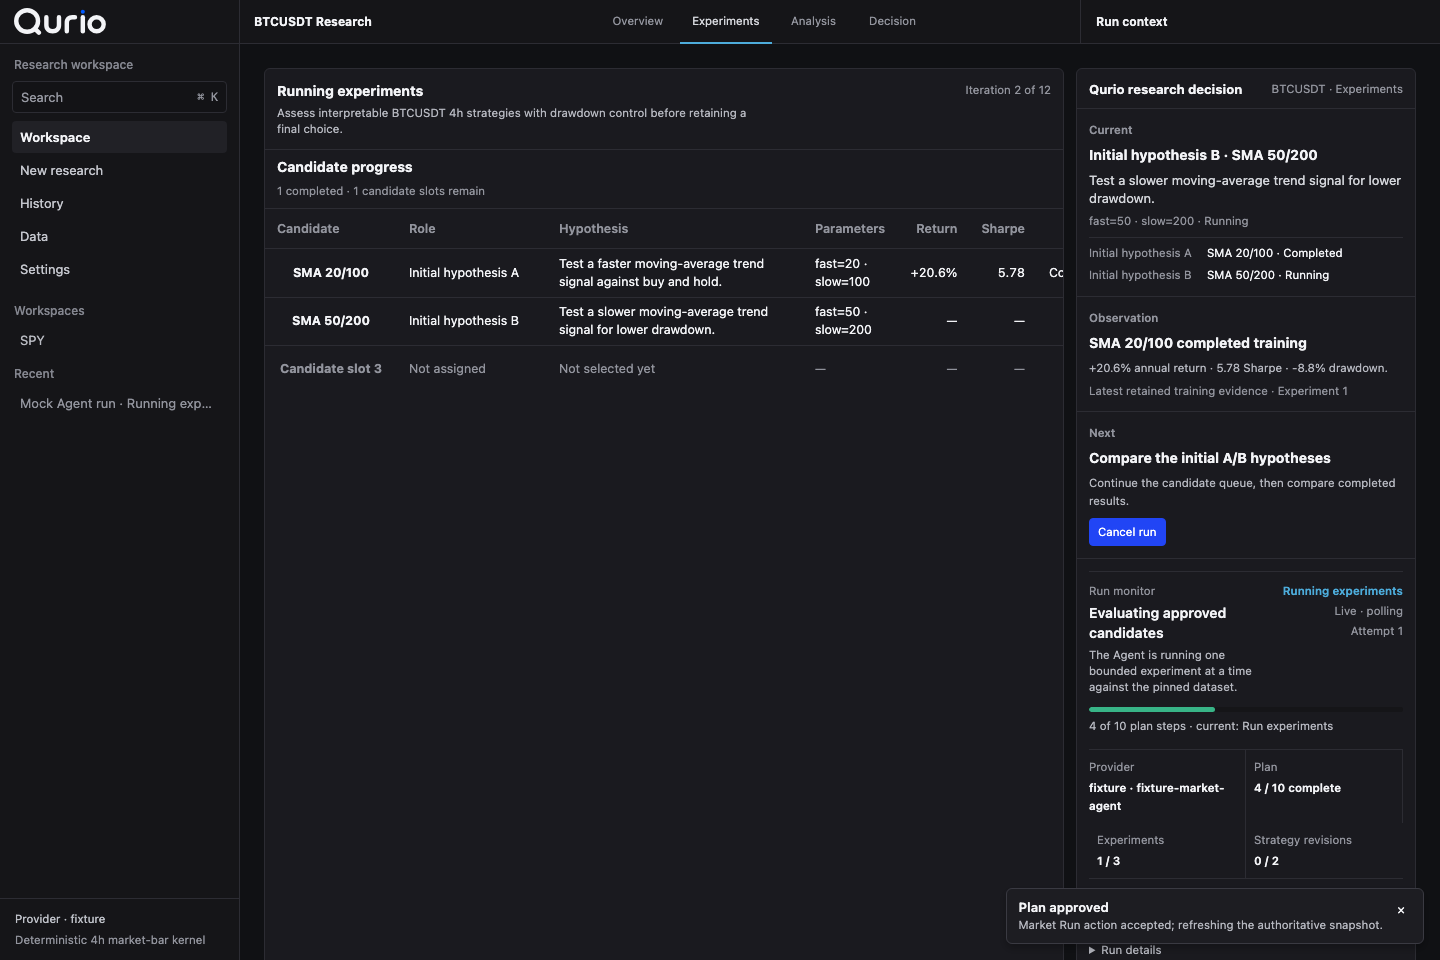
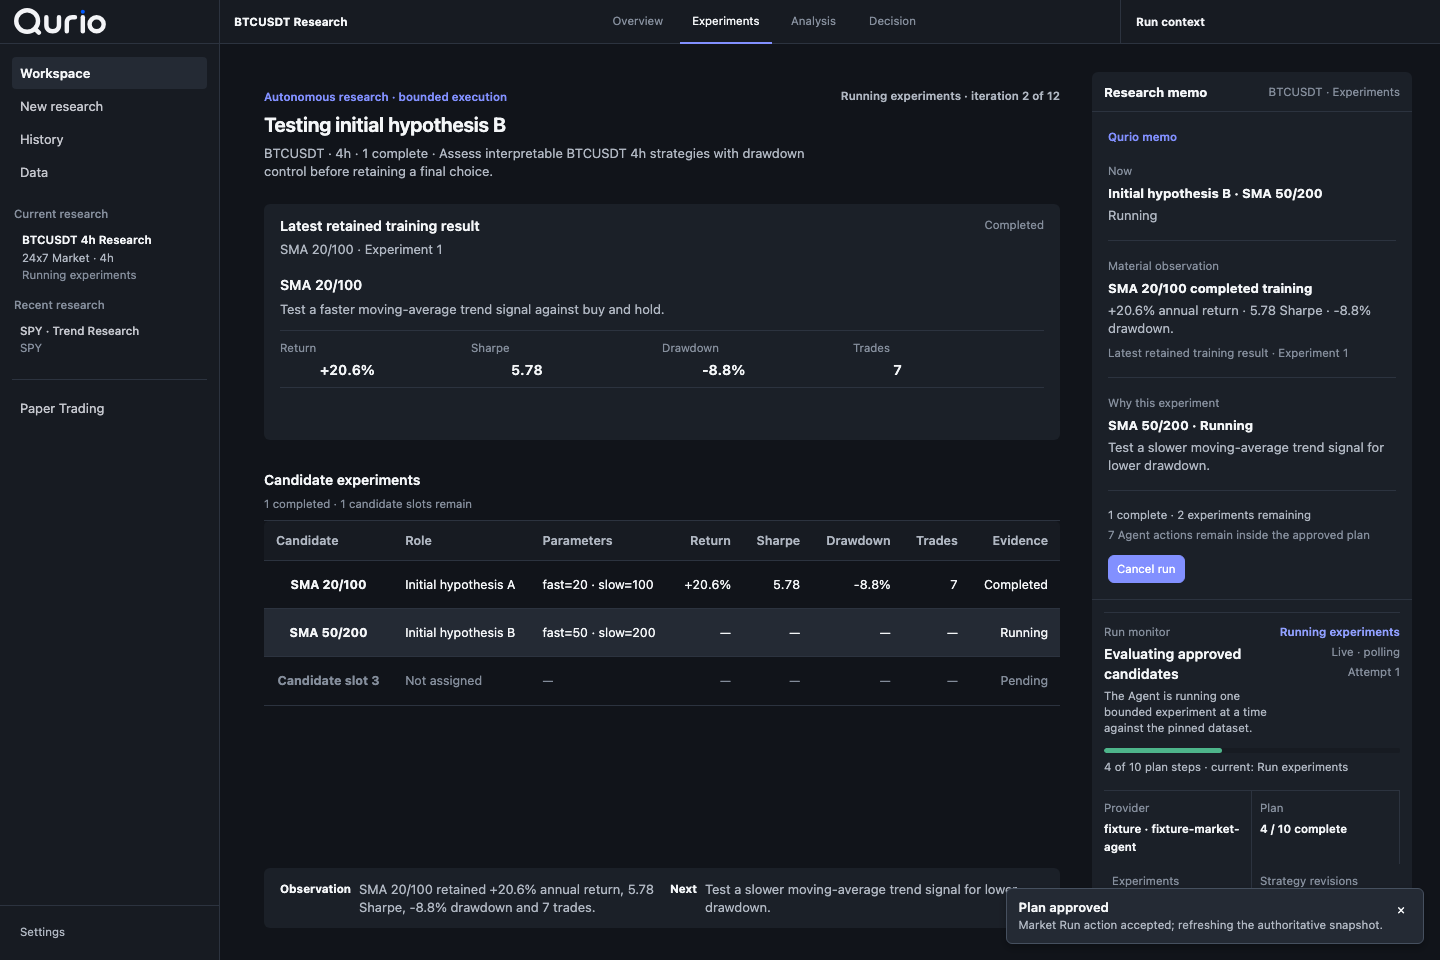
docs: refresh Qurio interview proof

diff --git a/docs/QURIO_DEMO_3_TO_5_MIN.md b/docs/QURIO_DEMO_3_TO_5_MIN.md
@@ -1,182 +1,139 @@
-# Qurio 面试演示脚本（3–5 分钟版）
+# Qurio 面试演示脚本（3–5 分钟）
 
-**产品名称**：Qurio
+## 一句话定位
 
-**用途**：展示 Qurio 如何把固定公开数据、受界研究契约、A/B/C 候选修复、排名与证据选择、密封 holdout 失败，以及 E0 导出 + History 重开串成一个可验证的研究工作流。
+Qurio 是由一个受界自主 Research Agent 驱动的 AI-native 量化研究工作台：它把固定市场数据、可审批计划、候选实验、比较证据、密封 holdout 决策和下一版本串成一条可验证主线。
 
-**适用对象**：面试官、投资人、产品评审。
-**时长**：主讲 90 秒，完整版 3–5 分钟，附 Q&A 与 presenter notes。
+它不是 Agent Builder、券商或实盘交易平台。Paper Trading 是与研究隔离的本地模拟边界，只有最终候选通过密封 holdout 后才能创建待复核订单。
 
-Qurio 是由单一可验证自主研究 Agent 驱动的 AI-native 量化研究工作台；本演示不声称
-Agent Builder、回放/纸面交易、经纪商执行或策略盈利能力。
+## 90 秒主讲
 
----
+### 1. 独立安装与首次启动
 
-## 90 秒主讲版
+> 这是可独立安装的 Apple-silicon macOS 应用。DMG 内置 FastAPI、Quant Agent worker 和本地数据库，面试演示不需要仓库、Python 或 Node。首次启动可以选择 Offline deterministic，无需 API key；也可以在 Settings 配置 DeepSeek。
 
-> 这六张截图来自一次真实的 Qurio 研究会话。界面是历史只读重开，没有重新调用模型或 worker。我只点真实的 UI 元素。
+不要在主讲中展示终端。若被追问，再说明当前包采用 ad-hoc 签名，公开分发前仍需 Developer ID 与 Apple notarization。
 
-### Node 1：固定数据与研究问题（约 20 秒）
+### 2. 从保留数据开始
 
-**Presenter clicks**：Data 工作区里已保留的 **Kraken Spot BTCUSD 4h** 数据集行。
+打开 **Data**，展示 `BTCUSDT · 4h` 数据预览。
 
-> 我先点这里。这是 Qurio 的 Data 工作区，数据来源是 Kraken Spot 公开 K 线。系统丢弃了当前未收盘的那一根，最终保留 **548 根已收盘 bar**。数据集身份固定，后面 A/B/C 三个候选人都绑定同一个不可变数据版本，起点是统一的。
+> Agent 不从一句聊天直接“猜策略”。我先选一份已验证、具有固定身份和覆盖范围的数据，再定义可衡量的研究目标。这个演示使用确定性 fixture，因此证明的是产品工作流，不是行情真实性或 alpha。
 
-### Node 2：Agent A/B → 候选 C 修复（约 20 秒）
+对应截图：`p1c-01-data-1440x960.png`
 
-**Presenter clicks**：Decision Ledger / learning trace 区域里“Candidate C 第一次被拒绝、第二次成功”的相邻两行。
+### 3. 计划先于执行
 
-> 然后点 Decision Ledger。这里能看到 Agent 先生成 A 和 B，再尝试创建候选 C。第一次 C 因为模板关系不匹配被拒绝；我们没有重跑整段 prompt，而是把被拒绝的输入原样返回，Agent 只改了一个字段就通过了。修复是单一、可审计的，不是模型偷偷重写候选。
+点击 **Generate plan**，展示待审批计划，再点击 **Approve & run**。
 
-### Node 3：排名 ≠ 选择（约 20 秒）
+> Qurio 先冻结研究范围、候选家族、比较目标与完成条件。Agent 只有在批准后才能运行受注册工具；它不能写任意 Python、访问 shell、Broker 或下单。
 
-**Presenter clicks**：Analysis 页面里的训练排名，以及“最终选中 B”的说明文字。
+对应截图：`p1c-02-plan-approval-1440x960.png`
 
-> 接着看 Analysis。三名候选人的训练排名是 C/B/A，但 C 在训练期产生了 **0 笔交易**。所以 Qurio 按“最小交易证据”规则把选中对象改成 B，同时保留 C 作为排名参考。排名高不等于能进入 holdout，这是我们做选择时的核心约束。
+### 4. 让 Agent 的自主性可读
 
-### Node 4：密封 holdout 失败 → 可执行的 Refine（约 20 秒）
+切到 **Experiments**。
 
-**Presenter clicks**：holdout 指标区域，以及下一步动作按钮 **“Review & refine research”**。
+> 右侧 Research memo 只回答三件事：现在在做什么、出现了什么重要观察、为什么进行当前实验。这里 A 已完成，B 正在运行；中间区域保留最新训练证据与候选表。Agent 是主动执行和适应的，但每一步仍绑定批准的研究边界。
 
-> B 进入密封 holdout 后失败。注意 holdout 总收益和按持有期年化后的收益是两个不同的数字，不能混着说。因为 holdout 失败，系统没有给出上线或推广动作，而是把下一步固定为 **Review & refine research**：先审阅下一轮要改变什么、依据什么、需要什么证据，再进入可编辑的研究设置。失败被显式保留，不会把训练集结果误当成可交付策略。
+对应截图：`p1c-03-live-ab-1440x960.png`
 
-### Close：E0 导出 + History 重开（约 10 秒）
+### 5. 从观察适应到最终选择
 
-**Presenter clicks**：E0 导出按钮，再切到 History 列表中同一个 Run 的 reopen 视图。
+等待运行结束，展示 Candidate comparison 与 Decision Ledger。
 
-> 最后点 E0 导出，再点 History 重开。失败结果仍然可以导出为机器可读的证据包；从 History 重新打开同一个 Run，数据集、Run 身份、选中候选、证据路径完全一致。这是真正的只读重开，没有写数据库，也没有重新调用模型。
+> Qurio 不把“模型思考日志”当产品。A/B 的训练结果形成结构化观察，再驱动 Candidate C；最终选择同时保留候选身份、比较指标和选择理由。排名、选择与 holdout 是不同阶段，不能混成一个结论。
 
----
+对应截图：`p1c-04-observation-to-c-1440x960.png`
 
-## 3–5 分钟详细版
+### 6. 诚实决策、Refine、导出与历史
 
-### 1. 数据：固定且可追踪（30–45 秒）
+切到 **Decision**，展示 holdout 失败结论、**Refine version** 与 **Export evidence**。
 
-**画面**：`v1-final-183209-01-data-1440x960.png`
-**Presenter clicks**：Data 页 Kraken Spot BTCUSD 4h 行 → 数据集详情面板。
+> 这个 Run 的密封 holdout 不支持推广，所以 Qurio 不生成 Paper 或上线动作，而是给出一项有边界的 Refine：改变什么、证据依据是什么、何时停止。证据包由服务端生成；History 重开同一 Run 时保持只读身份。
 
-讲稿：
+对应截图：
 
-> 这是 Qurio 的 Data 工作区。我不演示本地上传，而是直接展示已保留的 Kraken Spot 公开 BTCUSD 4 小时 K 线。原始响应移除当前未收盘 bar 后，保留 **548 根已收盘 bar**。数据集 ID 固定，本次 Run 中所有候选人都绑定这同一个不可变数据集版本。界面会显示 bar 数与数据状态，不需要去猜数据是否完整。
+- `p1c-05-report-json-1440x960.png`
+- `p1c-06-history-reopen-1440x960.png`
 
-### 2. 研究契约与候选身份（30–45 秒）
+## 3–5 分钟展开顺序
 
-**画面**：`v1-final-183209-02-ledger-repair-1440x960.png` 上部 Plan 区
-**Presenter clicks**：已批准的 plan 卡片 → A/B/C 策略身份列表。
+1. **安装形态（20 秒）**：DMG → Applications → 首次启动选择 Offline deterministic。
+2. **Data（30 秒）**：来源、interval、coverage、bar count、Research ready。
+3. **Research Contract（30 秒）**：目标、候选家族、选择目标、完成条件。
+4. **Agent 运行（45 秒）**：Now、Material observation、Why this experiment、实验预算。
+5. **比较与适应（45 秒）**：A/B → Observation → Candidate C → Final choice。
+6. **Analysis（30 秒）**：Equity、Drawdown、Trades；强调训练证据与 benchmark。
+7. **Decision（45 秒）**：holdout 状态、Qurio decision、Refine version、停止条件。
+8. **Export / History（30 秒）**：机器可读 evidence bundle 与历史只读重开。
+9. **可选 Paper（20 秒）**：换到 sealed-holdout pass fixture，说明仅为本地确定性模拟，不连接 Broker。
 
-讲稿：
+## 真相边界
 
-> 这是研究契约。模型只有一个受注册的 Research Agent，可用工具集和策略模板是固定的。本次三名候选人分别是：A `sma_crossover_20_100`、B `breakout_20`、C `sma_crossover_50_200`。策略身份由模板 + 参数 + canonical key 决定，没有自定义 DSL，也不让模型写任意 Python。
+可以说：
 
-### 3. A/B → 被拒绝 → 修复为 C（45–60 秒）
+- “Qurio 已完成 Data → Plan → Experiments → Compare → Analyze → Decision → Refine / History 的可执行主线。”
+- “Agent 会根据保留的训练观察生成 Candidate C，但只能使用批准的策略模板和工具。”
+- “密封 holdout 失败时不会进入 Paper；通过时才允许建立待复核的模拟订单。”
+- “应用可独立安装，并提供无 key 的 Offline deterministic 首次启动路径。”
 
-**画面**：`v1-final-183209-02-ledger-repair-1440x960.png` 中 Decision Ledger / learning trace 区
-**Presenter clicks**：Candidate C 第一次创建被拒绝的记录 → 同一行的第二次成功记录 → learning trace 的 `correction_delta`。
+不要说：
 
-讲稿：
+- “这个策略能盈利或跑赢市场。”
+- “已经有真实用户或验证了市场需求。”
+- “支持券商、实盘、任意 Python 策略或 Agent marketplace。”
+- “当前包已经 Apple notarized，任何 Mac 都能无提示安装。”
+- “fixture 结果证明 Binance、Kraken 或 DeepSeek 的生产可靠性。”
 
-> 第一次创建 Candidate C 时被拒绝。我们没有简单重试整段 prompt，而是把被拒绝的完整参数原封不动返回给模型，Agent 只把 `replan_decision.action` 从 `refine_parameters` 改成 `switch_approved_family`，第二次就成功了。`correction_delta` 里只记录了这个字段变化，没有混入其他输入。这是可验证的修复学习，不是“模型自己重写候选”。
+## 常见追问
 
-Presenter notes / 技术附录可补充：拒绝原因为 `ITERATION_REPLAN_TEMPLATE_RELATION_INVALID`。
+**为什么不是聊天框？**
 
-### 4. 训练排名 vs 基于证据的选择（45–60 秒）
+量化研究的核心对象是数据、计划、实验、比较和结论。对话只辅助定位证据，不能代替结构化研究状态。
 
-**画面**：`v1-final-183209-03-analysis-selection-1440x960.png`
-**Presenter clicks**：训练排名 C/B/A → C 的 0 交易提示 → 最终选中 B 的说明。
+**Agent 的新意是什么？**
 
-讲稿：
+不是多 Agent 数量，而是一个有预算、有工具边界、能从训练观察适应候选、又能被完整验证的 Research Agent。界面直接呈现它的当前行动、重要观察和实验理由。
 
-> 三名候选人在训练集上的最终排名是 C/B/A。但 C 在训练期产生了 **0 笔交易**，所以结构化决策通过 robustness override / minimum_trade_evidence 把选中对象改为 B，同时引用 C 作为排名参考。这不是说 B 能赚钱，而是说在“有交易信号”这个最低证据门槛上，B 比 C 更适合进入 holdout。B 的训练指标本身也是亏损的：Sharpe 约 -2.14，最大回撤约 -17.5%，年化收益约 -38.1%。
+**持续学习在哪里？**
 
-### 5. 密封 holdout 失败与下一步（45–60 秒）
+当前实现的是 verified learning：保留 Research Series、版本、尝试、修复差异和证据引用。它不会未经批准修改基础模型权重，也不会把聊天历史伪装成长期记忆。
 
-**画面**：`v1-final-183209-04-holdout-revise-1440x960.png`
-**Presenter clicks**：holdout 指标卡 → “Review & refine research” 下一步动作。
+**Paper Trading 是实盘吗？**
 
-讲稿：
+不是。它是 workspace-scoped、确定性的本地模拟账户与订单边界，没有 Broker host、凭证或 live-order route。
 
-> B 进入密封 holdout 后失败。注意区分两个数字：holdout 总收益约 -5.40%，按持有期年化后约 -67.2%；最大回撤约 -8.5%，3 笔交易。因为 holdout 失败，系统没有给上线或推广动作，而是展示下一轮的改变、证据依据和停止条件，再由 **Review & refine research** 进入可编辑的研究设置。这就是 Qurio 的诚实边界：失败被显式保留，而不是被训练集指标掩盖。
+**为什么限制任意 Python？**
 
-### 6. E0 导出 + History 只读重开（30–45 秒）
+当前产品的差异化是权威证据链，而不是通用 IDE。固定模板和 canonical strategy identity 让候选比较、holdout 与历史重开保持同一计算路径。
 
-**画面**：`v1-final-183209-05-e0-export-1440x960.png` 与 `v1-final-183209-06-history-reopen-1440x960.png`
-**Presenter clicks**：E0 导出按钮 / 导出路径 → History 列表中同一个 Run → reopen 后的只读视图。
+## 演示前检查
 
-讲稿：
+- 使用最新 `Qurio_0.1.0_aarch64.dmg`，或运行下方确定性浏览器路径。
+- 1440×960 下确认 Data、Plan、Experiments、Decision、History 无横向溢出。
+- 1024×960 下确认导出弹窗的 Close 与 Download 按钮可用。
+- 主讲使用当前按钮名：**Refine version**、**Export evidence**、**Generate next plan**。
+- 不展示 access token、API key、私有路径或终端环境变量。
 
-> 失败的结果仍然可以被导出为机器可读的 E0 证据包。然后从 History 重新打开同一个 Run，身份、数据集、选中候选、E0 路径完全一致。这次重开是纯 SQLite 历史只读重开，没有调用 worker 或模型，数据库字节未被修改。
+重建安装包：
 
-Presenter notes / 技术附录可补充：Run ID 为 `6ad1c324-b6c5-55af-aa51-411d676b15d8`，数据集 ID 为 `kraken-BTCUSD-4h-0b4ade74171c8dc0`，重开后 SHA-256 不变。
+```bash
+pnpm --dir apps/mac package:mac
+```
 
----
+重放黄金路径并刷新截图：
 
-## 真相边界与失败回退
+```bash
+GLINT_E2E_API_MODE=fixture \
+GLINT_FIXTURE_PORT=4521 \
+GLINT_E2E_APP_PORT=5521 \
+POKIEQUANT_CAPTURE_SCREENSHOTS=1 \
+pnpm --dir apps/mac exec playwright test e2e/p1c-golden-visual-proof.spec.ts
+```
 
-**收尾讲稿（30 秒）**：
+安装包位置：
 
-> 这个演示不是 alpha 声明，也不证明策略盈利、模型泛化或生产可用。它证明的是：Qurio 能把固定公开数据、受界研究契约、A/B/C 候选修复、训练排名、最小交易证据选择、密封 holdout 失败，以及 E0 导出和历史重开串成一条可验证的链。失败时下一步自动是 Refine，而不是把训练集结果当成可交付策略。
-
-**绝对禁止的说法**：
-
-- “这个策略是盈利的 / 能跑赢市场。”
-- “DeepSeek 模型在交易上很可靠。”
-- “这是生产就绪的 alpha。”
-- “用户已经在用了 / 有市场需求。”
-- “支持券商 / 实盘交易。”
-- “结果具有统计显著性。”
-
-**可接受的说法**：
-
-- “训练排名 C/B/A，但 C 零交易，所以按最小交易证据选了 B。”
-- “B 在 holdout 失败，下一步是审阅并编辑一轮有边界的 Refine。”
-- “整个链条的数据集、Run、候选、E0 身份在导出和历史重开中保持一致。”
-
----
-
-## 追问附录（Q&A）
-
-**Q：候选 C 为什么第一次被拒绝？**
-A：模板关系校验失败，错误码 `ITERATION_REPLAN_TEMPLATE_RELATION_INVALID`。系统把完整输入返回给 Agent，Agent 只修正 `replan_decision.action` 一个字段后通过。
-
-**Q：为什么选 B 而不是训练排名最高的 C？**
-A：C 在训练期 0 交易，不满足最小交易证据门槛。B 虽然训练指标也是亏损的，但有交易信号，因此进入 holdout。
-
-**Q：holdout 失败意味着什么？**
-A：意味着基于当前数据和参数，B 在未参与训练选择的 holdout 区间表现不佳。系统的下一步不是上线，而是 Refine / revise research。
-
-**Q：History 重开是真的只读吗？**
-A：是。演示使用的是 SQLite 只读会话回放，不调用 worker 或模型，数据库 SHA-256 在重开前后保持一致。
-
-**Q：E0 导出里有什么？**
-A：包含该 Run 的数据集身份、候选列表、训练与 holdout 指标、选择理由、失败判定和下一步动作，是机器可读的完整证据包。
-
----
-
-## 演示前准备
-
-- 打开已保留的只读 SQLite 会话目录：`.run/v1-kraken-deepseek-20260724-183209`。
-- 在仓库根目录执行以下命令；它只启动 API + Mac UI，不启动 worker，也不需要模型 key：
-
-  ```bash
-  export VITE_GLINT_ACCESS_TOKEN="$(jq -r .principal_id .run/v1-kraken-deepseek-20260724-183209/pokiequant-live-session.json)"
-  .venv/bin/python scripts/launch_quant_live_session.py --readonly-reopen
-  ```
-
-- 演示的是**真实数据库只读重开**，不是重新跑模型；启动后使用终端打印的 Mac UI 地址。
-- 确认六个 1440×960 截图已就位：
-  1. `docs/assets/pokiequant/v1-final-183209-01-data-1440x960.png`
-  2. `docs/assets/pokiequant/v1-final-183209-02-ledger-repair-1440x960.png`
-  3. `docs/assets/pokiequant/v1-final-183209-03-analysis-selection-1440x960.png`
-  4. `docs/assets/pokiequant/v1-final-183209-04-holdout-revise-1440x960.png`
-  5. `docs/assets/pokiequant/v1-final-183209-05-e0-export-1440x960.png`
-  6. `docs/assets/pokiequant/v1-final-183209-06-history-reopen-1440x960.png`
-
-## 演示核对清单
-
-- [ ] 六个截图路径存在且分辨率为 1440×960。
-- [ ] 90 秒主讲不提 token、终端命令、devtools、SHA 值、错误码、精确工程内部值。
-- [ ] 区分 holdout 总收益与年化收益。
-- [ ] 强调“C 训练排名第一但零交易，因此未选中”。
-- [ ] 强调 holdout 失败后下一步是 Review & refine research，不是推广。
-- [ ] 说明 History 是只读重开，未重新调用模型。
-- [ ] 出现任何追问盈利/可靠性/生产就绪时，回退到本脚本的“真相边界”。
+- `apps/mac/src-tauri/target/release/bundle/macos/Qurio.app`
+- `apps/mac/src-tauri/target/release/bundle/dmg/Qurio_0.1.0_aarch64.dmg`
+- `apps/mac/src-tauri/target/release/bundle/dmg/SHA256SUMS.txt`

diff --git a/README.md b/README.md
@@ -1,6 +1,6 @@
 # Qurio
 
-Qurio is an AI-native quant research workspace powered by one verifiable autonomous Research Agent. It turns a bounded investment idea into comparable evidence and supports continuation from retained results; it is not an Agent Builder or trading platform.
+Qurio is an AI-native quant research workspace powered by one verifiable autonomous Research Agent. It turns a bounded investment idea into comparable evidence, supports continuation from retained results, and can hand a sealed-holdout pass into an isolated Paper simulation; it is not an Agent Builder, broker, or live-trading platform.
 
 This repository retains the historical name **PokieQuant** in paths, implementation documents, contracts, and earlier phase records. PokieQuant is not the current product or UI brand. Product-facing work must use the canonical Qurio assets documented in [`apps/mac/public/brand/README.md`](./apps/mac/public/brand/README.md).
 
@@ -47,7 +47,7 @@ Implemented:
 
 - independent Quant contracts, enums, safe event payloads, SSE encoding, and OpenAPI registration;
 - authenticated, workspace-scoped `/v1/quant` project/run, approval, cancellation, retry, event, artifact, and experiment routes;
-- a server-owned deterministic workspace fixture with ten named E2E states;
+- a server-owned deterministic workspace fixture with eleven named E2E states;
 - a canonical deterministic runtime script covering Candidate B's recoverable candidate-scoped failure and repair, no-viable-candidate, failed-safe, and cancellation paths;
 - PostgreSQL/SQLAlchemy-backed, workspace-scoped Phase 0 aggregate and fixture snapshot state, including refresh/restart recovery and optimistic concurrency;
 - a registered `quant-fixture` worker path with lease, heartbeat, fencing, stale-claim rejection, and cancellation fence invalidation;
@@ -98,7 +98,7 @@ Not implemented at the retained Phase 0 checkpoint below; current superseding ca
 - Spark/Jupyter/sandbox or uploaded-code execution;
 - providers other than the optional DeepSeek-compatible decision endpoint; the decision provider
   never receives market-network or arbitrary execution tools;
-- paper or live trading, broker credentials, order routing, or portfolio execution;
+- live trading, broker credentials, live order routing, or production portfolio execution;
 - PokieTicker or Spark code migration (both remain blocked on repository, immutable commit, license, and security review);
 - a normalized production Quant research schema, multi-worker throughput/SLO validation, and long-running lease cadence. Phase 0 intentionally persists its synthetic aggregate in one workspace-scoped JSON document; it is durable but is not presented as the future market/backtest schema.
 
@@ -116,6 +116,7 @@ quant-repairing
 quant-validating
 quant-waiting-review
 quant-completed
+quant-paper-pass
 quant-no-viable-candidate
 quant-failed-safe
 quant-cancelled

diff --git a/docs/assets/README.md b/docs/assets/README.md
@@ -28,8 +28,9 @@ profitability, general model reliability or production readiness.
 
 ## Qurio P1-C golden mainline captures
 
-These seven PNG files were captured on 2026-07-24 from the actual Qurio React
-workbench connected to the deterministic loopback fixture API:
+These seven PNG files were refreshed on 2026-07-26 from the actual Qurio React
+workbench connected to the deterministic loopback fixture API after the RC1
+information-hierarchy pass:
 
 - `pokiequant/p1c-01-data-1440x960.png`
 - `pokiequant/p1c-02-plan-approval-1440x960.png`
@@ -48,6 +49,16 @@ The BTCUSDT `4h` data and Agent progression are deterministic fixtures. These
 captures prove the implemented UI path, retained identities and responsive
 viewport behavior; they are not evidence of live Binance/Kraken/DeepSeek
 reliability, strategy profitability or discovered alpha.
+
+SHA-256 hashes:
+
[7 lines of base64/hex data omitted]
 
 ## Historical Glint captures — 2026-07-16
 
